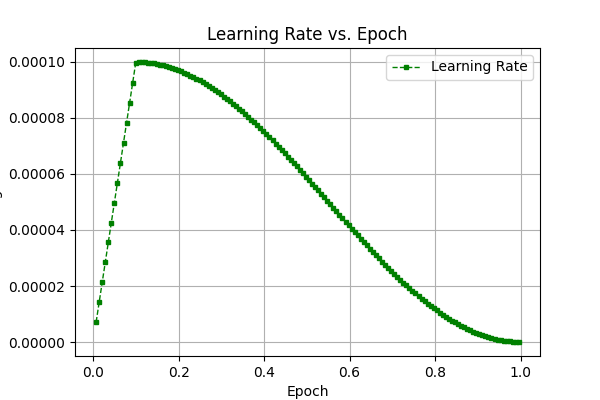
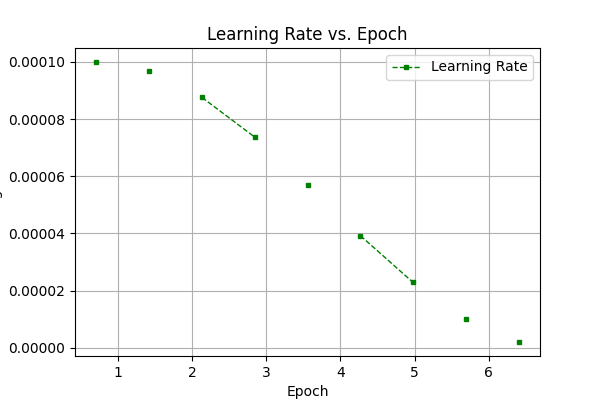
Add

diff --git a/draw.py b/draw.py
@@ -2,7 +2,7 @@ import json
 import matplotlib.pyplot as plt
 import os
 
-trainer_state_path = "./phi-3-deepseek-finetuned/checkpoint-7029/trainer_state.json"
+trainer_state_path = "./phi-3-deepseek-finetuned/checkpoint-490/trainer_state.json"
 
 with open(trainer_state_path, "r") as f:
     trainer_state = json.load(f)
